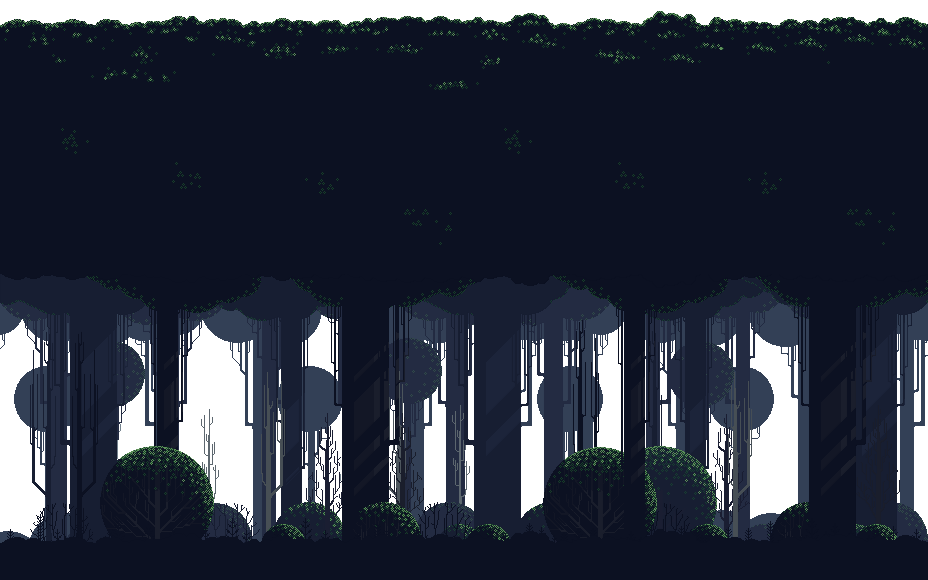
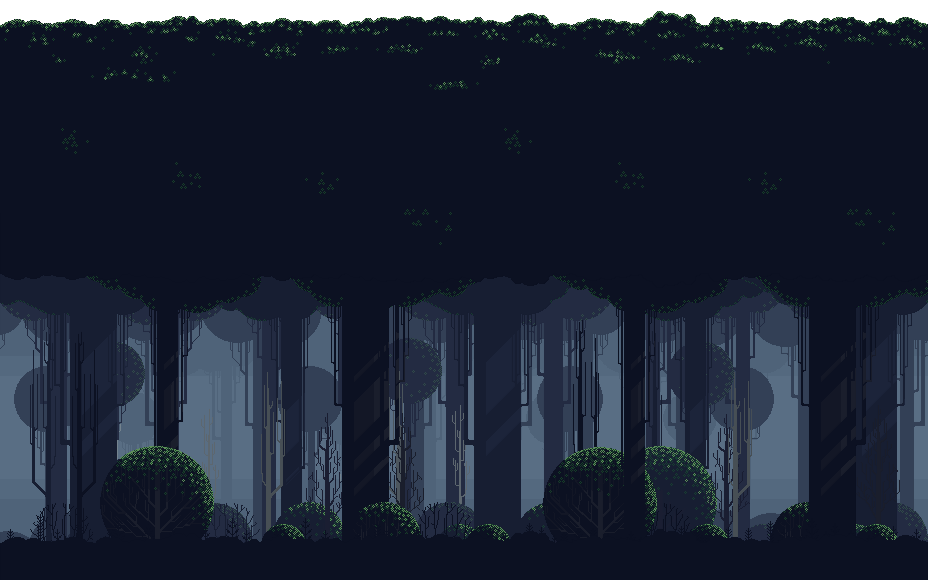
State에 따른 Animation처리 같은 것 어떻게 할지 생각좀 해야할 것 이다.

diff --git a/src/game/gameRenderer.ts b/src/game/gameRenderer.ts
@@ -42,7 +42,7 @@ export default class GameRenderer extends EventEmitter {
         this.app = new PIXI.Application({
             width: this.SCREEN_WIDTH,
             height: this.SCREEN_HEIGHT,
-            backgroundColor: 0x5193CF,
+            backgroundColor: 0x7296D5,
             autoStart: false,
         });
         this.app.stage = new PIXI.display.Stage();
@@ -128,6 +128,11 @@ export default class GameRenderer extends EventEmitter {
     }
 
     private async objectUpdate(dt: number): Promise<void> {
+        const boundary: any = {
+            min: ((-this.camera.position.x + this.SCREEN_WIDTH / 2) / this.camera.currentZoom) - this.SCREEN_WIDTH,
+            max: ((-this.camera.position.x + this.SCREEN_WIDTH / 2) / this.camera.currentZoom) + this.SCREEN_WIDTH
+        }
+
         for (let type in this.gameData.dirties) {
             this.gameData.dirties[type].forEach((id: string) => {
                 const obj = this.objectDict[type][id];
@@ -140,10 +145,11 @@ export default class GameRenderer extends EventEmitter {
                 }
             });
         }
-
-        for (let key in this.objectDict) {
-            for (let id in this.objectDict[key]) {
-                this.objectDict[key][id]._update(dt);
+        for (let type in this.objectDict) {
+            for (let id in this.objectDict[type]) {
+                const centerX: number = this.objectDict[type][id].position.x + this.objectDict[type][id].size.x / 2;
+                this.objectDict[type][id].visible = centerX < boundary.max && centerX > boundary.min;
+                this.objectDict[type][id]._update(dt);
             }
         }
     }
@@ -151,8 +157,10 @@ export default class GameRenderer extends EventEmitter {
     private async objectDelete(): Promise<void> {
         for (let type in this.gameData.beDeletes) {
             this.gameData.beDeletes[type].forEach((id: string): void => {
-                this.objectDict[type][id].delete();
-                delete this.objectDict[type][id];
+                if (this.objectDict[type][id]) {
+                    this.objectDict[type][id].delete();
+                    delete this.objectDict[type][id];
+                }
                 this.gameData.doneDelete(id, type);
 
                 if (type === 'tiles') {
@@ -166,6 +174,8 @@ export default class GameRenderer extends EventEmitter {
         let count: number = 0;
         for (let type in this.gameData.beGenerates) {
             this.gameData.beGenerates[type].every((id: string): any => {
+                if (this.objectDict[type][id]) return true;
+
                 const object = ObjectFactory.create(this.gameData.data[type][id]);
 
                 if (type === 'tiles') {

diff --git a/src/game/characters/baseCharacter.ts b/src/game/characters/baseCharacter.ts
@@ -1,0 +1,76 @@
+import BaseObject from "../baseObject";
+
+export default class BaseCharacter extends BaseObject {
+    private state: any;
+    private animation: any;
+
+    constructor(options: any) {
+        super(options);
+    }
+
+    public update(dt: number): void {
+    }
+
+    loadAnimation(): void {
+
+    }
+}
+
+/*
+state: {
+    currentState: '',
+    startDt: 0,
+    endDt: 0,
+    loop: true,
+    nextState: ''
+}
+
+state Map이 있어야 할듯하다. -> 그래프 느낌으로
+    State에 따라서 Animation이 변경된다.
+    State는 Mutation될 수 있다.
+    State는 완료 시점이 있으며, Loop할 수 있다.
+    어떤 Key가 눌려있는지를 알아야 State를 조절할 수 있을듯 하다.
+
+    idle -> idle (Loop & all key up)
+    idle -> walk (current keydown) vector 변형
+    idle -> jump (current keydown) vector 변형
+    idle -> attack (current keydown)
+    idle -> crouch (current keydown)
+
+    walk -> idle (all key up & land) vector 변형
+    walk -> walk (Loop & keydown)
+    walk -> jump (!land) vector 변형
+    walk -> attack (current keydown) vector 변형
+    walk -> crouch (current keydown) vector 변형
+
+    jump -> idle (land)
+    jump -> walk (land & keydown) vector 변형
+    jump -> jump (Loop & !land) keydown시 vector 변형
+
+    attack -> idle (done state & land) 
+    attack -> jump (done state & !land) vector 변형
+    attack -> attack (done state & keydown)
+    attack -> walk (done state & keydown) vector 변형
+
+    crouch -> idle (all key up)
+    crouch -> walk (keydown) vector 변형
+    crouch -> jump (keydown) vector 변형
+    crouch -> crouch (Loop)
+
+    stateMap: {
+        idle: {
+            idle: [
+                {
+                    events: ['keyUp', 'all'],
+                    script: []
+                }
+            ],
+            walk: [
+                {
+                    events: ['keyDown', 'left'],
+                    script: ['setVector', 'x', -0.2]
+                }
+            ]
+        }
+    }
+*/

diff --git a/src/game/baseObject.ts b/src/game/baseObject.ts
@@ -8,12 +8,14 @@ export default class BaseObject extends PIXI.Container {
     private strength: number = 0;
     private duration: number = 0;
     private vibrateFlag: boolean = true;
+    private size: any = { x: 0, y: 0 };
 
     constructor(options: any) {
         super();
         this.interactive = true;
         this.setPosition(options.position);
         this.setScale(options.scale);
+        this.setSize(options.size);
         this.addChild(this.container);
         this.addChild(this.uiContainer);
 
@@ -59,6 +61,12 @@ export default class BaseObject extends PIXI.Container {
         if (!position) return;
         this.position.x = position.x;
         this.position.y = position.y;
+    }
+
+    public setSize(size: any): void {
+        if (!size) return;
+        this.size.x = size.x;
+        this.size.y = size.y;
     }
 
     public setScale(scale: any): void {

diff --git a/src/game/gameClient.ts b/src/game/gameClient.ts
@@ -66,7 +66,7 @@ export default class GameClient {
                 if(this.gameRenderer.camera.targetZoom < 1) {
                     this.gameRenderer.camera.setZoom(1);
                 } else {
-                    this.gameRenderer.camera.setZoom(0.2);
+                    this.gameRenderer.camera.setZoom(0.5);
                 }
             }
             this.io.emit('keydown', keyCode);

diff --git a/src/game/characters/stateManager.ts b/src/game/characters/stateManager.ts
@@ -1,0 +1,5 @@
+export default class StateManager {
+    constructor() {
+        
+    }
+}
